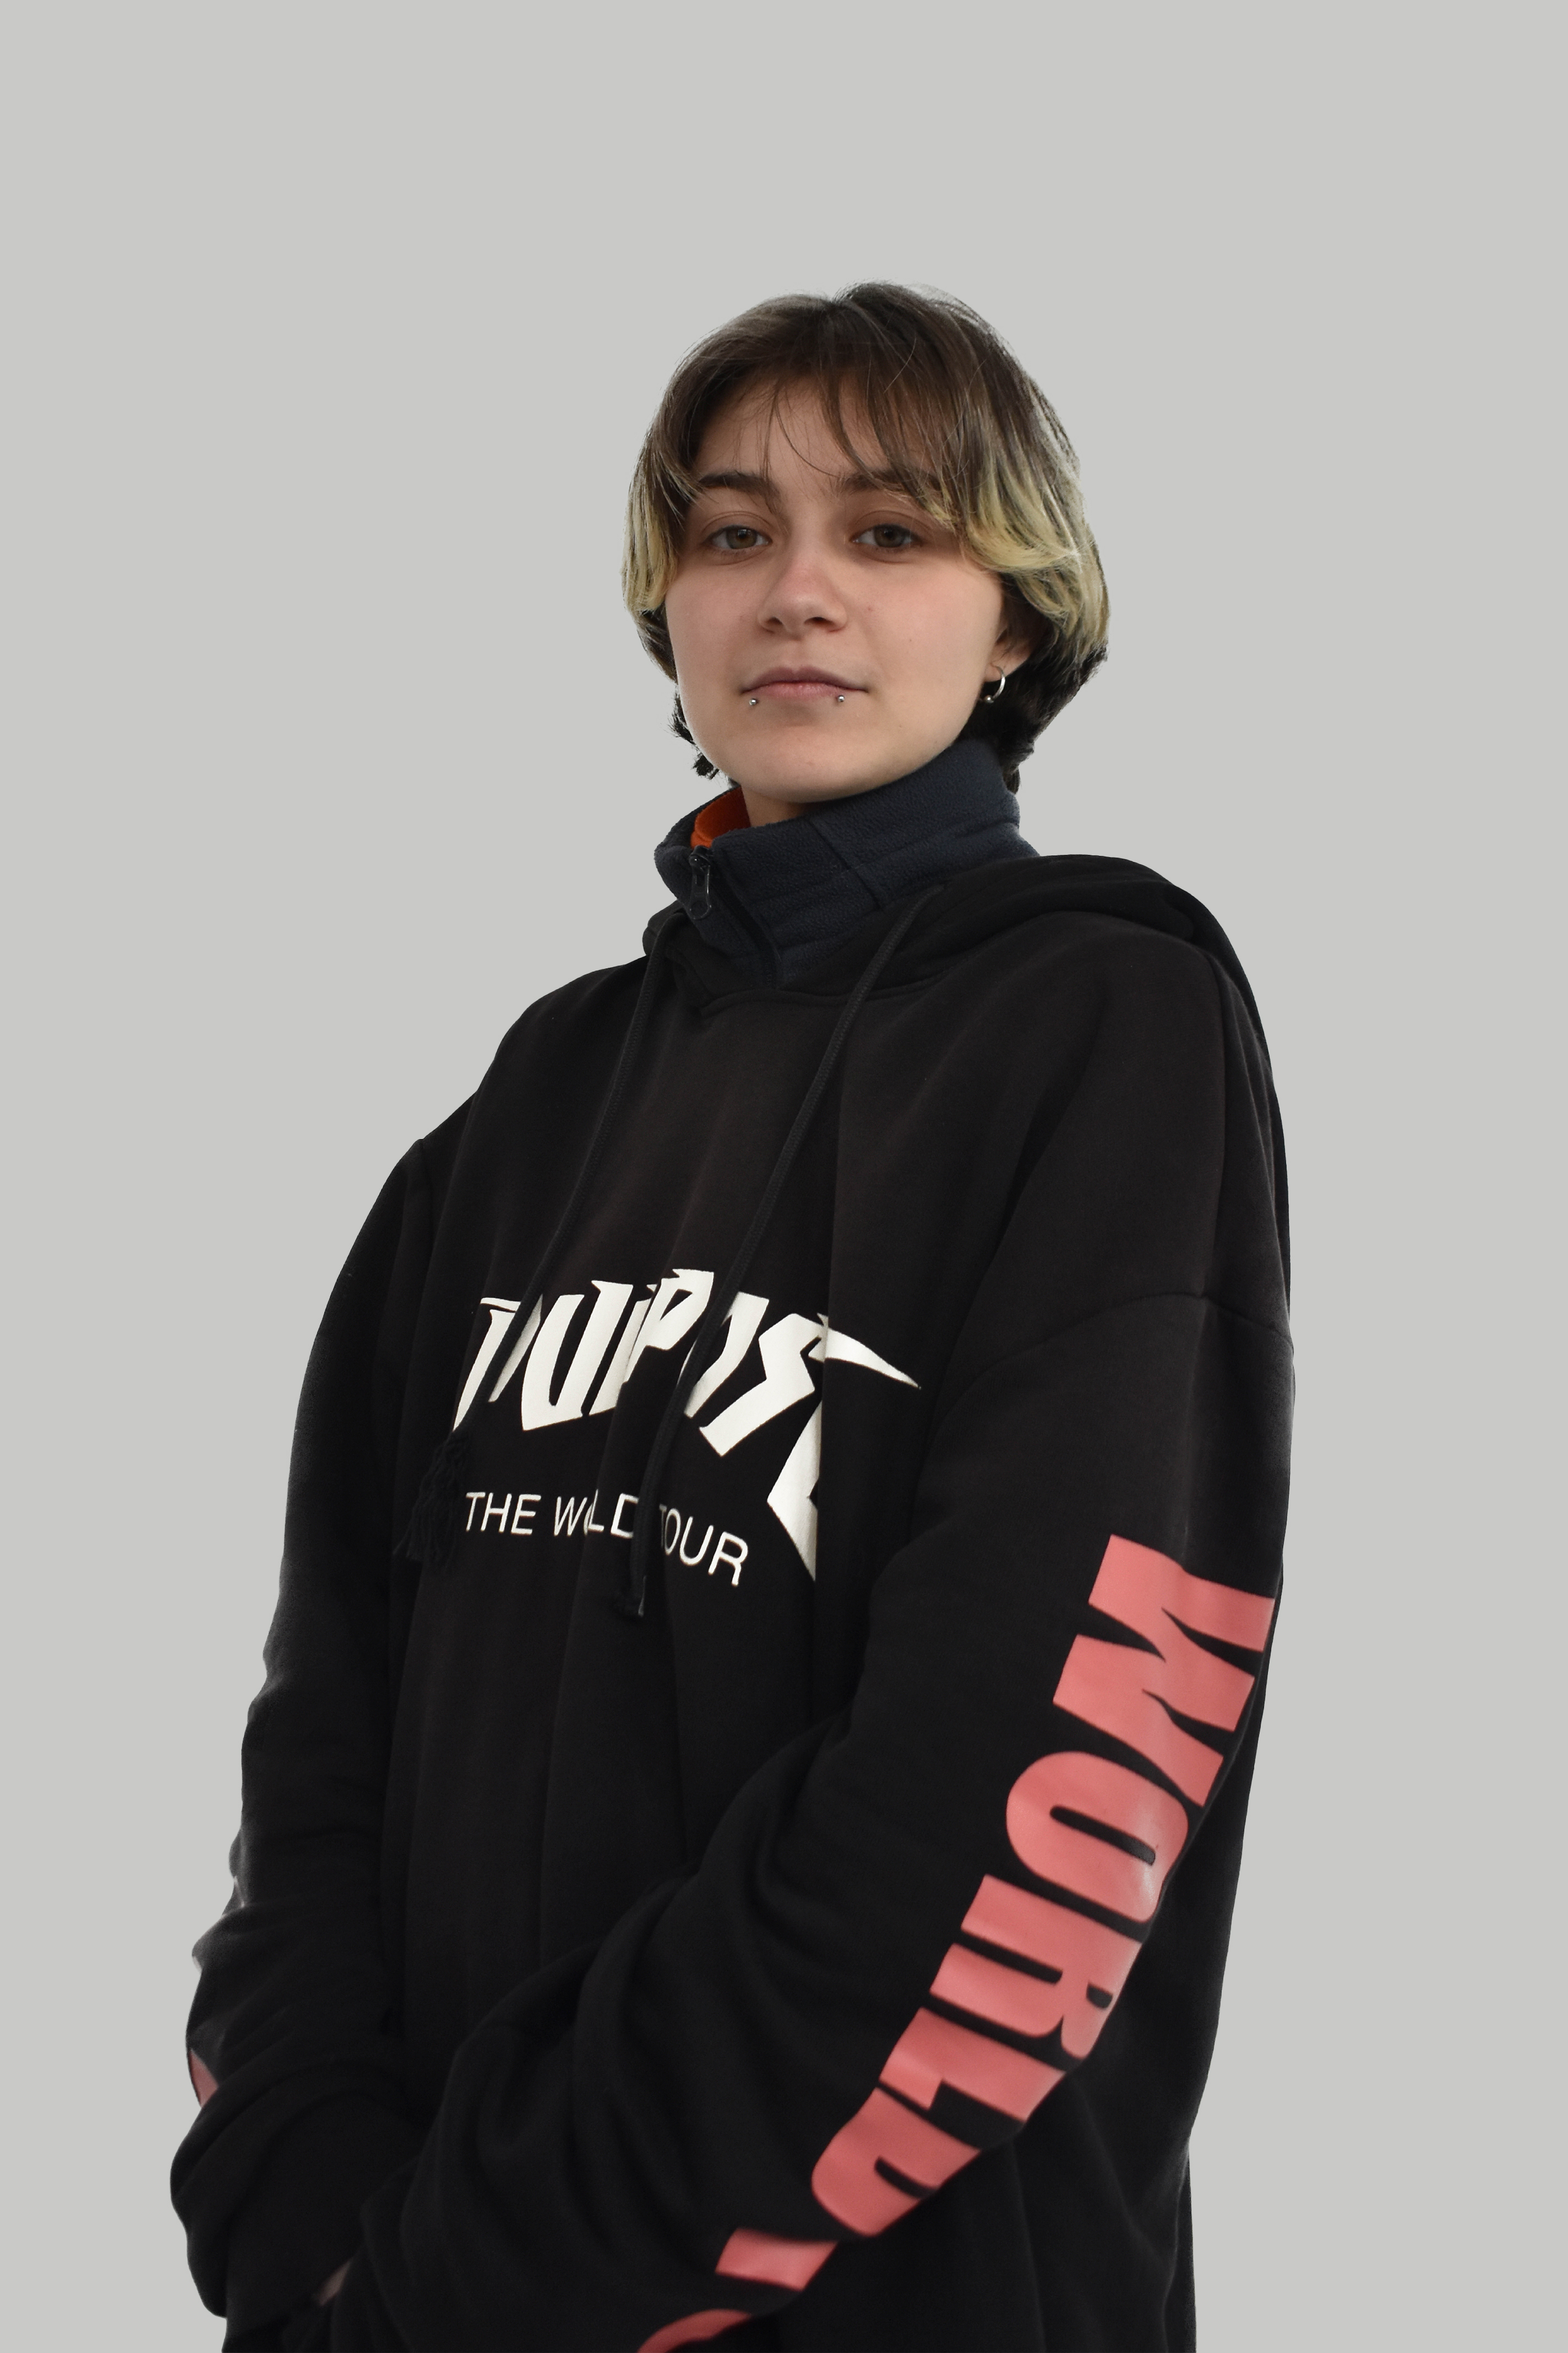
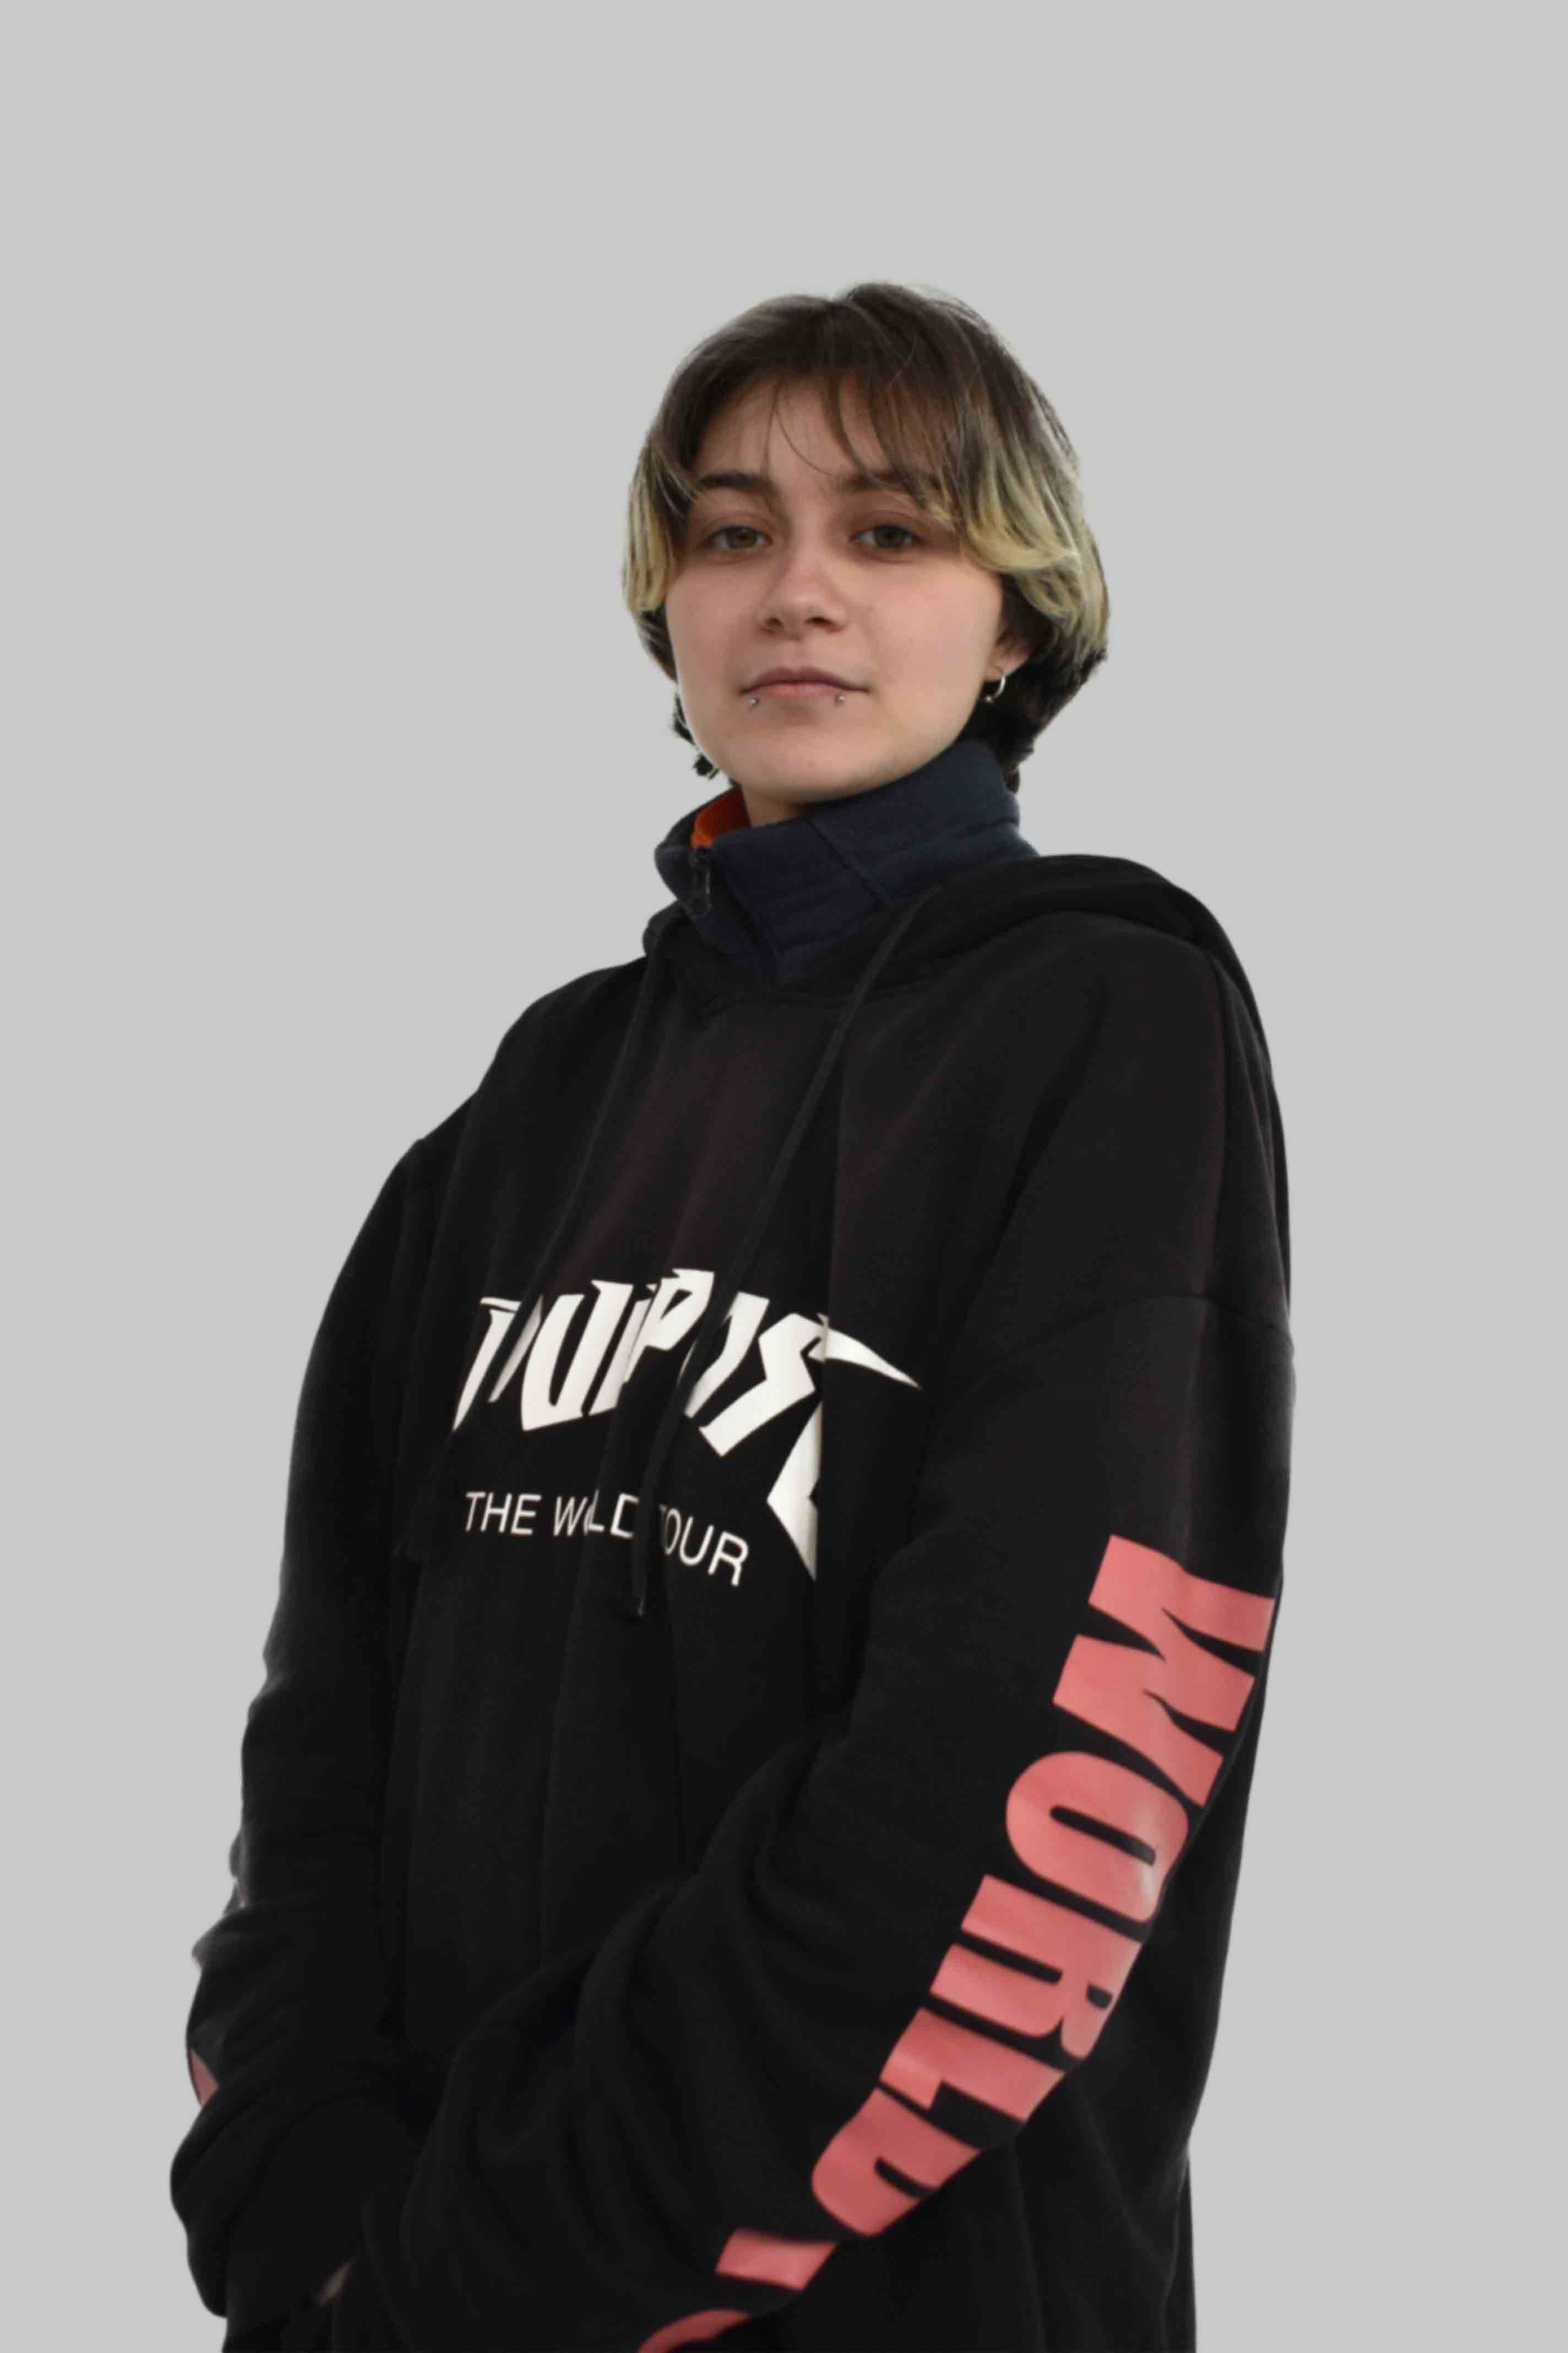
Actualización 17-02-23. Actualizadas fotos de creadores en página de cada podcast.

diff --git a/episodio5.html b/episodio5.html
@@ -196,7 +196,7 @@
                 <div class="fotos-creadores">
                     <div class="imagen-creador1">
                         <div id="creador1">
-                            <img src="resources/podcast5/JULIACA (1).jpg" alt="foto1">
+                            <img src="resources/podcast5/JULIACA-(1).jpg" alt="foto1">
                             <p id="description-img">Julia A. Carrasco Álvarez</p>
                         </div>
                     </div>
@@ -208,7 +208,7 @@
                     </div>
                     <div class="imagen-creador3">
                         <div id="creador3">
-                            <img src="resources/podcast5/MARIAMB.PNG" alt="foto1">
+                            <img src="resources/podcast5/MARIAMB.jpg" alt="foto1">
                             <p id="description-img">María Melgar Becerra</p>
                         </div>
                     </div>

diff --git a/episodio7.html b/episodio7.html
@@ -192,13 +192,13 @@
                 <div class="fotos-creadores">
                     <div class="imagen-creador1">
                         <div id="creador1">
-                            <img src="resources/podcast7/MARCOSRU.PNG" alt="foto1">
+                            <img src="resources/podcast7/MARCOSRU.jpg" alt="foto1">
                             <p id="description-img">Marcos Ruiz Soler</p>
                         </div>
                     </div>
                     <div class="imagen-creador2">
                         <div id="creador2">
-                            <img src="resources/podcast7/MARIA.ADELINARG.PNG" alt="foto1">
+                            <img src="resources/podcast7/MARIA.ADELINARG.jpg" alt="foto1">
                             <p id="description-img">María A. Ruiz Gámez</p>
                         </div>
                     </div>

diff --git a/episodio6.html b/episodio6.html
@@ -197,7 +197,7 @@
                 <div class="fotos-creadores">
                     <div class="imagen-creador1">
                         <div id="creador1">
-                            <img src="resources/podcast6/LUCIAME (1).JPG" alt="foto1">
+                            <img src="resources/podcast6/LUCIAME-(1).jpg" alt="foto1">
                             <p id="description-img">Lucia Molinero Escalona</p>
                         </div>
                     </div>

diff --git a/episodio1.html b/episodio1.html
@@ -211,7 +211,7 @@
                     </div>
                     <div class="imagen-creador3">
                         <div id="creador3">
-                            <img src="resources/podcast1/Lucía Martos.jpg" alt="foto1">
+                            <img src="resources/podcast1/Lucía-Martos.jpg" alt="foto1">
                             <p id="description-img">Lucía Martos Ocaña</p>
                         </div>
                     </div>

diff --git a/episodio2.html b/episodio2.html
@@ -217,7 +217,7 @@
                     </div>
                     <div class="imagen-creador5">
                         <div id="creador5">
-                            <img src="resources/podcast2/MARIALV.PNG" alt="foto1">
+                            <img src="resources/podcast2/MARIALV.jpg" alt="foto1">
                             <p id="description-img">María Loarces Villalba</p>
                         </div>
                     </div>
